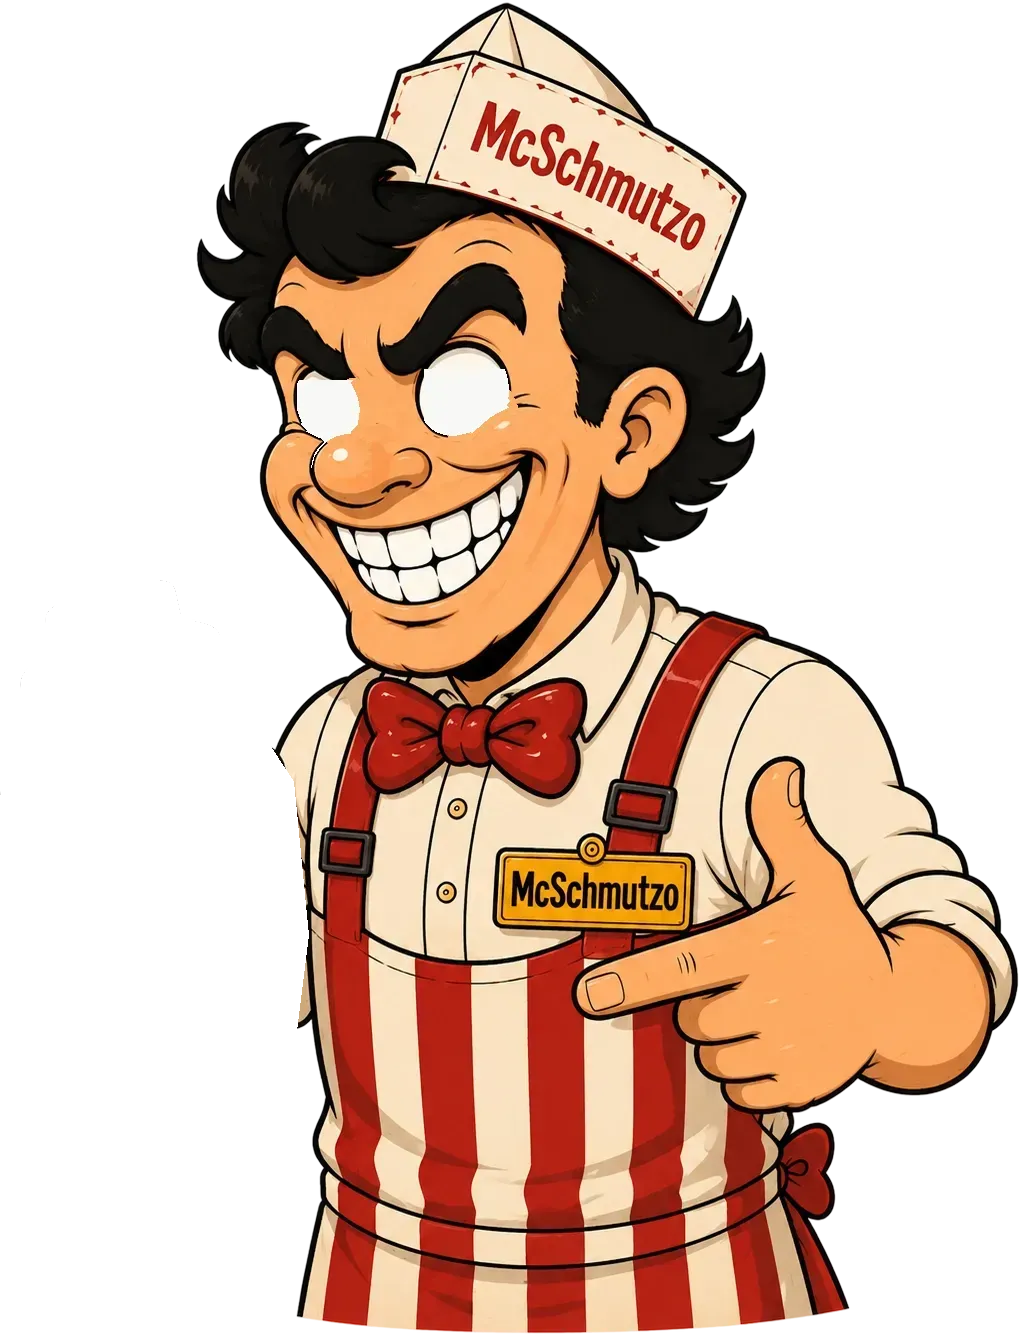
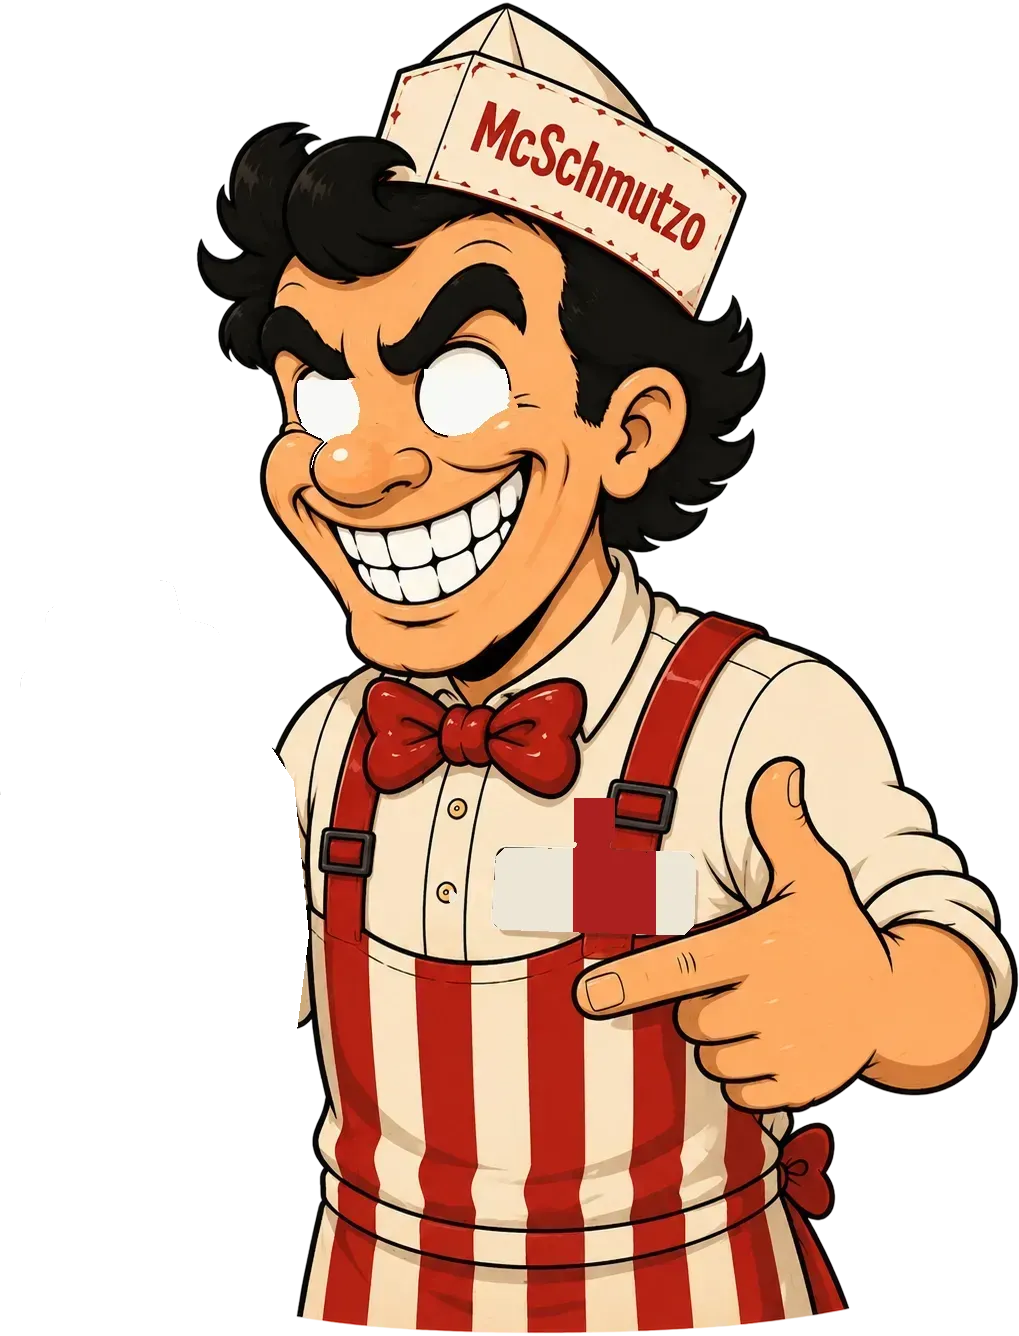
feat(mcschmutzo): regular chef — shake the arm more often + jiggle the nametag
- Bottle-shake period 5s → 2.8s so he shakes noticeably more often.
- The "McSchmutzo" nametag is cut out of the base (hole flat-filled with the
  red suspender band + cream shirt behind) and overlaid as an AnimatedGuy extra
  that gently tilts on its mount pin, so the label is alive alongside the arm.
Verified in-game: badge stays aligned (no double / no patch showing) while it
sways.

Changed region(s): [[0.4868, 0.5831, 0.6997, 0.7058]]

diff --git a/apps/mcschmutzo/src/components/Background.svelte b/apps/mcschmutzo/src/components/Background.svelte
@@ -75,8 +75,8 @@
 	const mascotTop = $derived(mascotPose.y - mascotPose.height / 2);
 	const bottlePivotX = $derived(mascotLeft + BOTTLE_PIVX * mascotPose.width);
 	const bottlePivotY = $derived(mascotTop + BOTTLE_PIVY * mascotPose.height);
-	// A quick damped wiggle every few seconds (matching the splash's bottle-shake), otherwise still.
-	const BOTTLE_PERIOD = 5000; // ms between shakes
+	// A quick damped wiggle, more often now (matching the splash's bottle-shake), otherwise still.
+	const BOTTLE_PERIOD = 2800; // ms between shakes
 	const SHAKE_DUR = 950; // ms the wiggle lasts
 	const bottleShake = $derived.by(() => {
 		const t = clock % BOTTLE_PERIOD;
@@ -162,6 +162,19 @@
 		pupils={mascotPupils}
 		lids={mascotLids}
 		skin={0xec9c58}
+		extras={[
+			{
+				key: 'mascotLabel',
+				nx: 0.4406,
+				ny: 0.5973,
+				nw: 0.2434,
+				nh: 0.1026,
+				px: 0.5,
+				py: 0.07,
+				amp: 0.04,
+				period: 320,
+			},
+		]}
 	/>
 	<!-- The held ketchup bottle, overlaid so it can shake about the wrist like the splash chef's. -->
 	<Sprite

diff --git a/apps/mcschmutzo/src/game/assets.ts b/apps/mcschmutzo/src/game/assets.ts
@@ -452,6 +452,12 @@ export default {
 		src: new URL('../../assets/mcschmutzo/guys/mascot_bottle.webp', import.meta.url).href,
 		preload: true,
 	},
+	mascotLabel: {
+		// The "McSchmutzo" nametag, cut out of the base (patched behind) so it can jiggle on its pin.
+		type: 'sprite',
+		src: new URL('../../assets/mcschmutzo/guys/mascot_label.webp', import.meta.url).href,
+		preload: true,
+	},
 	mascotPupilL: {
 		type: 'sprite',
 		src: new URL('../../assets/mcschmutzo/guys/mascot_pupilL.webp', import.meta.url).href,
